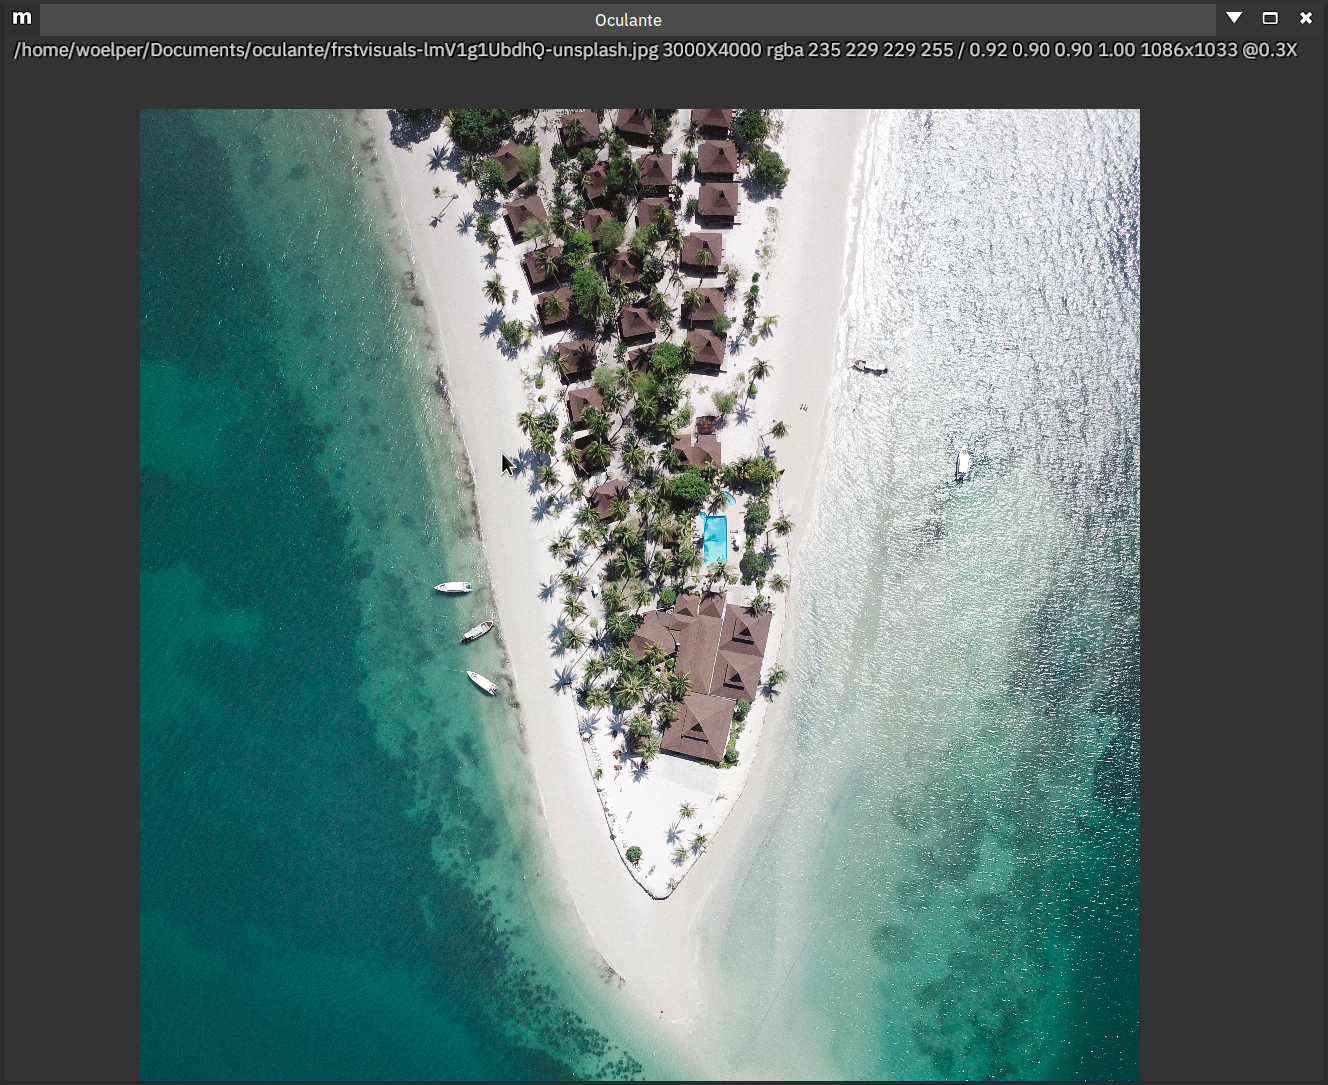
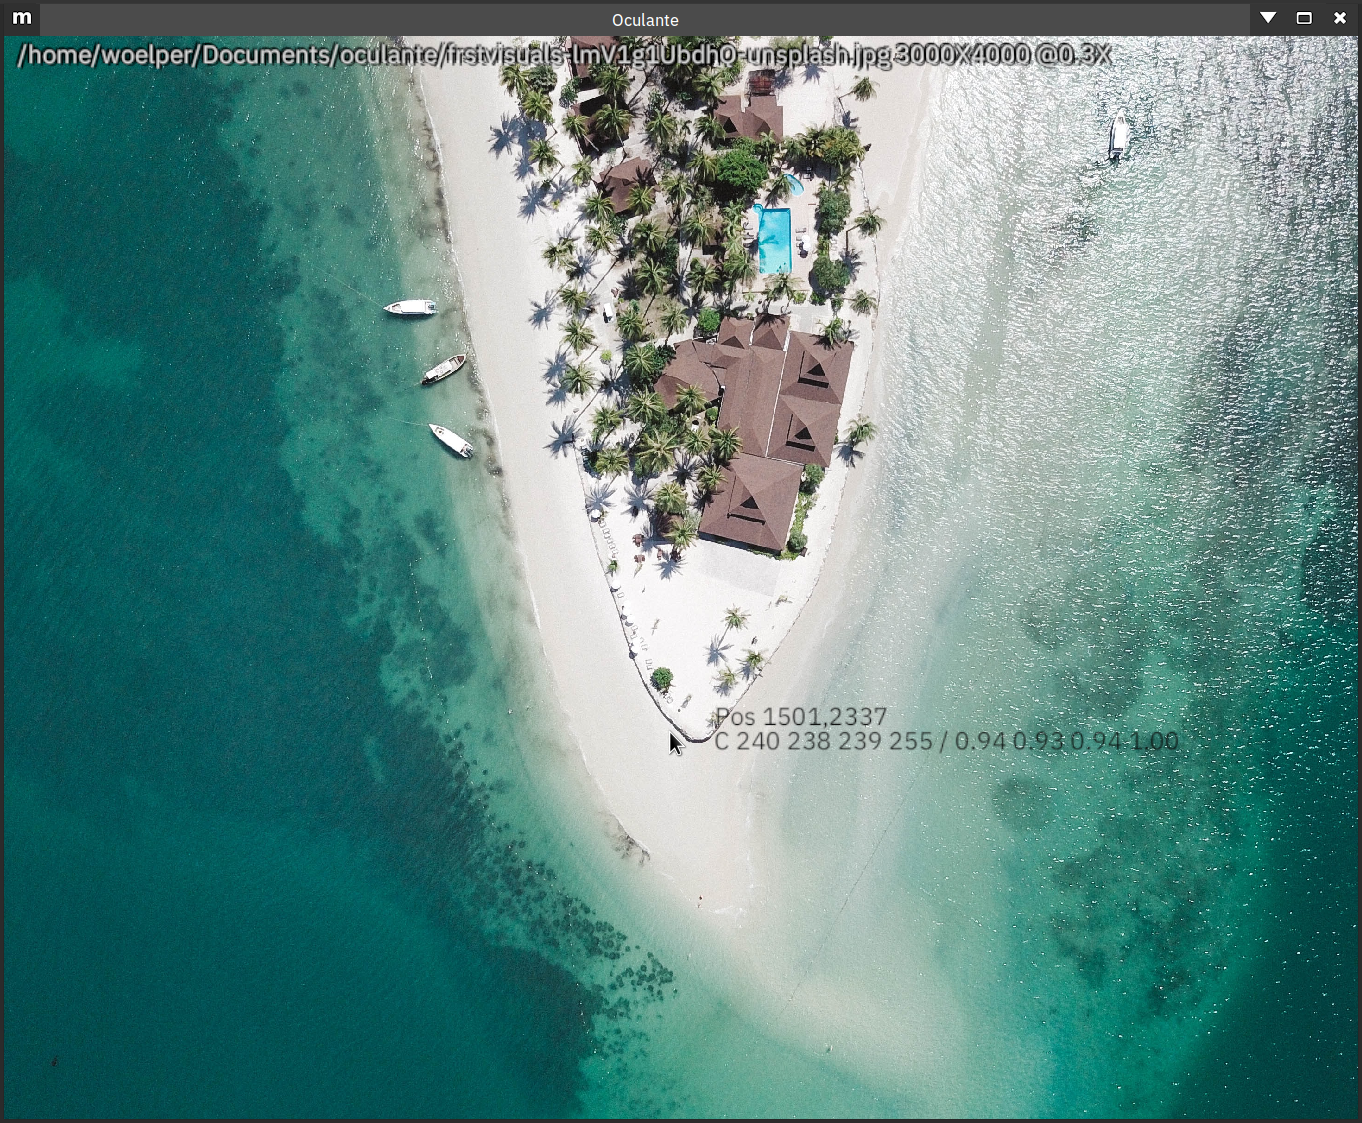
Much better zooming

diff --git a/src/main.rs b/src/main.rs
@@ -18,9 +18,8 @@ use net::*;
 use clap;
 use clap::{App, Arg};
 use nalgebra::Vector2;
-// use sdl2_window::Sdl2Window;
-// extern crate glutin_window;
-// extern crate window;
+// use piston::window::WindowSettings;
+// use glutin_window::GlutinWindow as Window;
 
 // use glutin_window::GlutinWindow;
 
@@ -52,15 +51,23 @@ fn main() {
 
     // let opengl = OpenGL::V3_2;
 
+    let mut ws = WindowSettings::new("Oculante", [1000, 800]).exit_on_esc(true);
+
     // let mut window: PistonWindow<Sdl2Window> = WindowSettings::new("Oculante", [1000, 800])
-    let mut window: PistonWindow = WindowSettings::new("Oculante", [1000, 800])
-        .exit_on_esc(true)
-        // .graphics_api(opengl)
-        // .state.fullscreen_enabled(true)
+    let mut window: PistonWindow = ws
         .build()
         .unwrap();
 
-    window.set_max_fps(60);
+
+        // let window  = Window::new(
+
+		// 	&WindowSettings::new(
+		// 		"Example",
+		// 		[600, 400]
+        //     ).exit_on_esc(true)).unwrap();
+            
+         
+    // window.set_max_fps(60);
 
     // dbg!(window.window);
 
@@ -82,6 +89,8 @@ fn main() {
     // These should all be a nice config struct...
     let mut current_image = image_crate::DynamicImage::new_rgba8(1, 1).to_rgba(); //TODO: make this shorter
     let mut texture = Texture::empty(&mut window.create_texture_context());
+    let mut zoomed_texture = Texture::empty(&mut window.create_texture_context());
+
     let mut glyphs = Glyphs::from_bytes(
         font,
         window.create_texture_context(),
@@ -135,7 +144,6 @@ fn main() {
         }
         
 
-
         if let Some(Button::Mouse(_)) = e.press_args() {
             state.drag_enabled = true;
             state.cursor_relative = pos_from_coord(state.offset, state.cursor, Vector2::new(state.image_dimension.0 as f64, state.image_dimension.1 as f64), state.scale);
@@ -159,19 +167,19 @@ fn main() {
                 if ! state.fullscreen_enabled {
                     
 
-                    // window = WindowSettings::new("Oculante", [1000, 800])
-                    // .exit_on_esc(true)
-                    // // .graphics_api(opengl)
-                    // .fullscreen(true)
-                    // .build()
-                    // .unwrap();
+                    window = WindowSettings::new("Oculante", [1000, 800])
+                    .exit_on_esc(true)
+                    // .graphics_api(opengl)
+                    .fullscreen(true)
+                    .build()
+                    .unwrap();
                     state.fullscreen_enabled = true;
                 } else {
-                    // window = WindowSettings::new("Oculante", [1000, 800])
-                    // .exit_on_esc(true)
-                    // // .graphics_api(opengl)
-                    // .build()
-                    // .unwrap();
+                    window = WindowSettings::new("Oculante", [1000, 800])
+                    .exit_on_esc(true)
+                    // .graphics_api(opengl)
+                    .build()
+                    .unwrap();
                     state.fullscreen_enabled = false;
                 }
                 
@@ -259,15 +267,15 @@ fn main() {
         };
 
         e.mouse_scroll(|d| {
-            if d[1] > 0.0 {
-                state.offset -= scale_pt(state.offset, state.cursor, state.scale, state.scale_increment);
-                state.scale += state.scale_increment;
-            } else {
-                if state.scale > state.scale_increment + 0.01 {
-                    state.offset += scale_pt(state.offset, state.cursor, state.scale, state.scale_increment);
-                    state.scale -= state.scale_increment;
-                }
+            // Map zoom nicely so it does not feel awkward whan zoomed out/in
+            let delta = zoomratio(d[1], state.scale);
+            // prevent negative / small zoom
+            if delta + state.scale < 0.1 {
+                return
             }
+            // make sure we zoom to the mouse cursor
+            state.offset -= scale_pt(state.offset, state.cursor, state.scale, delta);
+            state.scale += delta;
         });
 
         e.mouse_relative(|d| {
@@ -276,13 +284,15 @@ fn main() {
             }
         });
 
-        // e.file_drag();
 
         e.mouse_cursor(|d| {
             state.cursor = Vector2::new(d[0], d[1]);
             state.cursor_relative = pos_from_coord(state.offset, state.cursor, Vector2::new(state.image_dimension.0 as f64, state.image_dimension.1 as f64), state.scale);
-            let p = current_image.get_pixel(state.cursor_relative.x as u32, state.cursor_relative.y as u32).channels4(); 
-            state.sampled_color = [p.0 as f32, p.1 as f32, p.2 as f32, p.3 as f32];          
+            if state.cursor_relative.x as u32 <= current_image.width() &&  state.cursor_relative.y as u32 <= current_image.height() {
+
+                let p = current_image.get_pixel(state.cursor_relative.x as u32, state.cursor_relative.y as u32).channels4(); 
+                state.sampled_color = [p.0 as f32, p.1 as f32, p.2 as f32, p.3 as f32];          
+            }
 
         });
 
@@ -315,17 +325,25 @@ fn main() {
                 
             // draw the image
             if let Ok(tex) = &texture {
-                image(tex, transform, gfx);
+                image(tex, transform, gfx);                
                 state.image_dimension = tex.get_size();
             }
+            
+            // // draw the zoomed image
+            // if let Ok(tex) = &texture {
+            //     let transform = c.transform
+            //         // .trans(state.cursor.x, state.cursor.y)
+            //     .trans(state.offset.x as f64, state.offset.y as f64)
 
+            //         .zoom(16.0);
+            //     image(tex, transform, gfx);
+            //     // state.image_dimension = tex.get_size();
+            // }
 
             let info = format!("{} {}X{} @{}X",
                 &img_location.to_string_lossy(),
                 state.image_dimension.0,
                 state.image_dimension.1,
-       
-               
                 (state.scale * 10.0).round() / 10.0
             );
 

diff --git a/src/utils.rs b/src/utils.rs
@@ -38,6 +38,7 @@ pub struct OculanteState {
     pub font_size: u32,
 }
 
+
 impl Default for OculanteState {
 fn default() -> OculanteState {
     OculanteState {
@@ -58,6 +59,11 @@ fn default() -> OculanteState {
 
     }
 }
+}
+
+pub fn zoomratio(i: f64, s: f64) -> f64 {
+    // i * i * i.signum()
+    i * s * 0.1
 }
 
 
